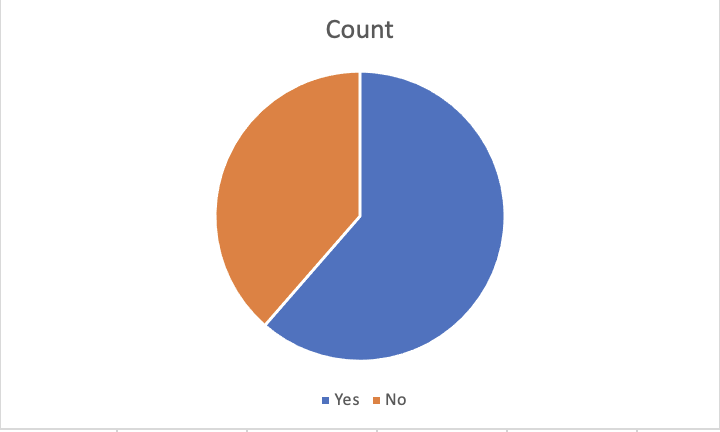
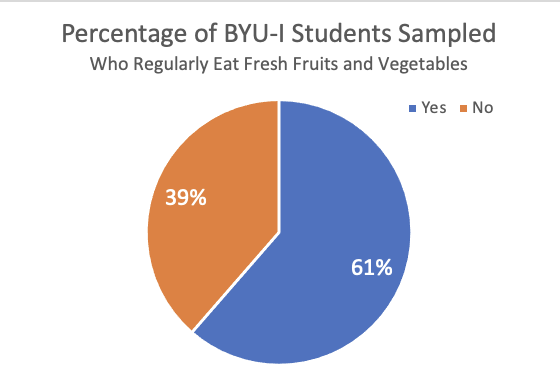
Typo fixes to Lesson 16

diff --git a/docs/Lesson16.html b/docs/Lesson16.html
@@ -484,17 +484,19 @@ proportions.</li>
 class="section level2">
 <h2>Case Study: Eating Habits of College Students</h2>
 <div style="float:right;padding:10px;">
-<p><img src="./Images/byui_crossroads.jpeg" width="300px"></p>
+<p><img src="Images/byui_crossroads.jpeg" width="300px"></p>
 </div>
 <p><img src="Images/Step1.png"></p>
 <p>Chances are that as a college student you have probably thought to
 yourself, “It takes too much time to prepare healthy food.” In fact, the
 American College Health Association estimates that only 6% of college
 students across the U.S. are eating the recommended “five or more
-servings of fruits and vegetables” daily.[^1] In an effort to better
+servings of fruits and vegetables” daily.<a href="#fn1"
+class="footnote-ref" id="fnref1"><sup>1</sup></a> In an effort to better
 understand the barriers that were keeping college students from eating
 healthy, a team of researchers from the Department of Psychology at
-BYU-Idaho undertook a study.[^2]</p>
+BYU-Idaho undertook a study.<a href="#fn2" class="footnote-ref"
+id="fnref2"><sup>2</sup></a></p>
 <p><br/></p>
 <p><img src="Images/Step2.png"></p>
 <p>The team of researchers obtained a convenience sample of <span
@@ -679,10 +681,6 @@ the counts in another column, like this:</li>
 <td>No</td>
 <td>154</td>
 </tr>
-<tr class="odd">
-<td>Didn’t Answer</td>
-<td>118</td>
-</tr>
 </tbody>
 </table>
 <ul>
@@ -692,7 +690,8 @@ entire table.</li>
 <li>Click on the Insert tab, then click on the Pie chart button.</li>
 <li>Please choose the basic 2D pie.</li>
 </ul>
-<p>The pie chart will look like this:</p>
+<p>After adding a title to the plot, and some optional data labels, the
+pie chart will look like this:</p>
 <p><img src="Images/fruitsveggies_Pie_Excel.png"> <br></p>
 </div>
 <p><br></p>
@@ -732,10 +731,6 @@ the counts in another column, like this:</li>
 <td>No</td>
 <td>154</td>
 </tr>
-<tr class="odd">
-<td>Didn’t Answer</td>
-<td>118</td>
-</tr>
 </tbody>
 </table>
 <ul>
@@ -743,8 +738,9 @@ the counts in another column, like this:</li>
 <li>Click on the Insert tab and then click on column chart button.</li>
 <li>Again, please choose the simple 2D column chart.</li>
 </ul>
-<p>Your bar chart will look like this:</p>
-<p><img src="./Images/fruitsveggies_Bar_Excel.png"> <br></p>
+<p>After editing the title of the plot, and adding optional data labels,
+your bar chart will look like this:</p>
+<p><img src="Images/fruitsveggies_Bar_Excel.png"> <br></p>
 </div>
 <p><br></p>
 <p>The above chart shows that the 118 students that did not respond to
@@ -1324,6 +1320,21 @@ One Proportion</a></td>
 </tbody>
 </table>
 </center>
+</div>
+<div class="footnotes footnotes-end-of-document">
+<hr />
+<ol>
+<li id="fn1"><p>American College Health Association (2014). American
+College Health Association-National College Health Assessment II:
+Undergraduate students reference group executive summary spring 2014.
+Hanover, MD: American College Health Association.<a href="#fnref1"
+class="footnote-back">↩</a></p></li>
+<li id="fn2"><p>Robert R. Wright, Jack Shuai, Yovanny Maldonado, and
+Caleb Nelson, all originally from the Department of Psychology at
+BYU-Idaho, published their study results under the title “The CENTS
+Program” which is currently under review.<a href="#fnref2"
+class="footnote-back">↩</a></p></li>
+</ol>
 </div>
 
 <br />
